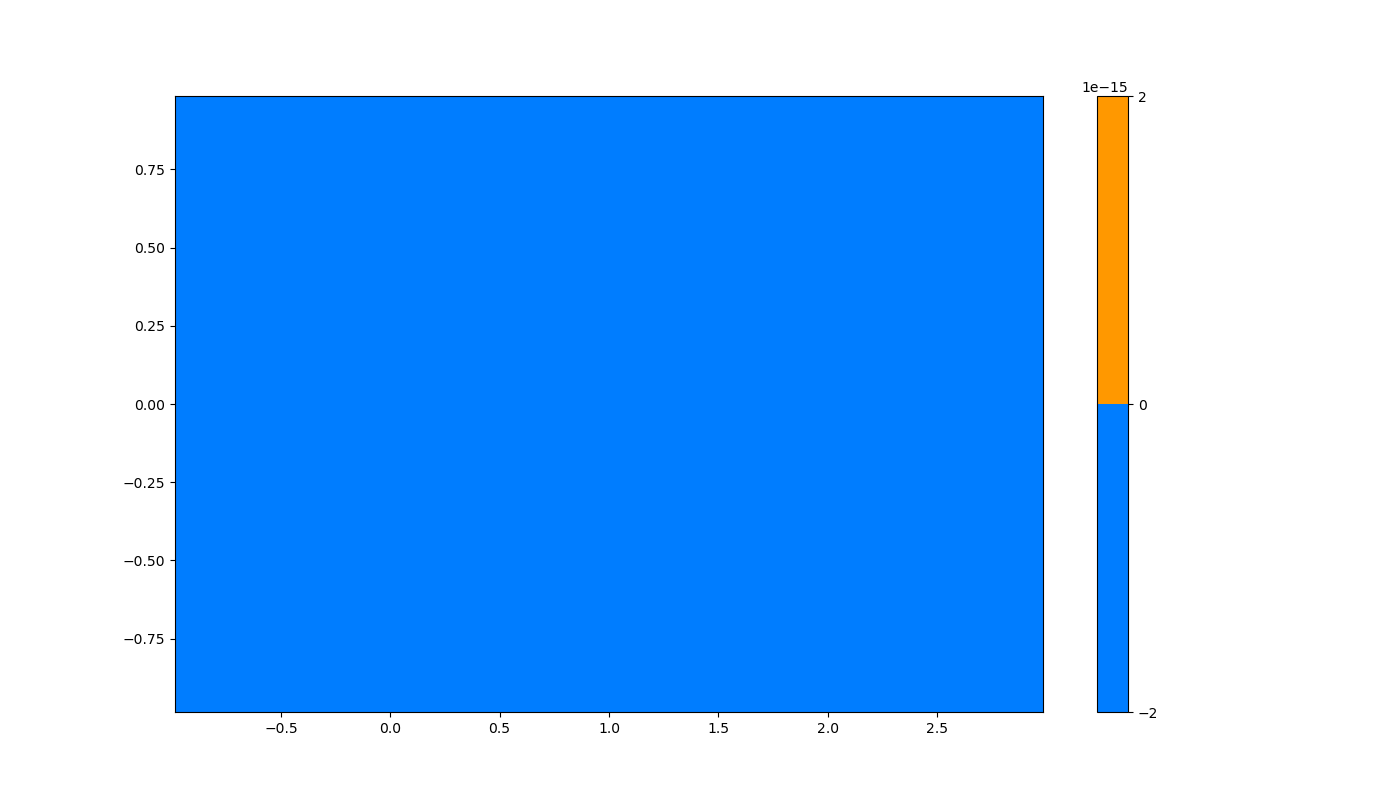
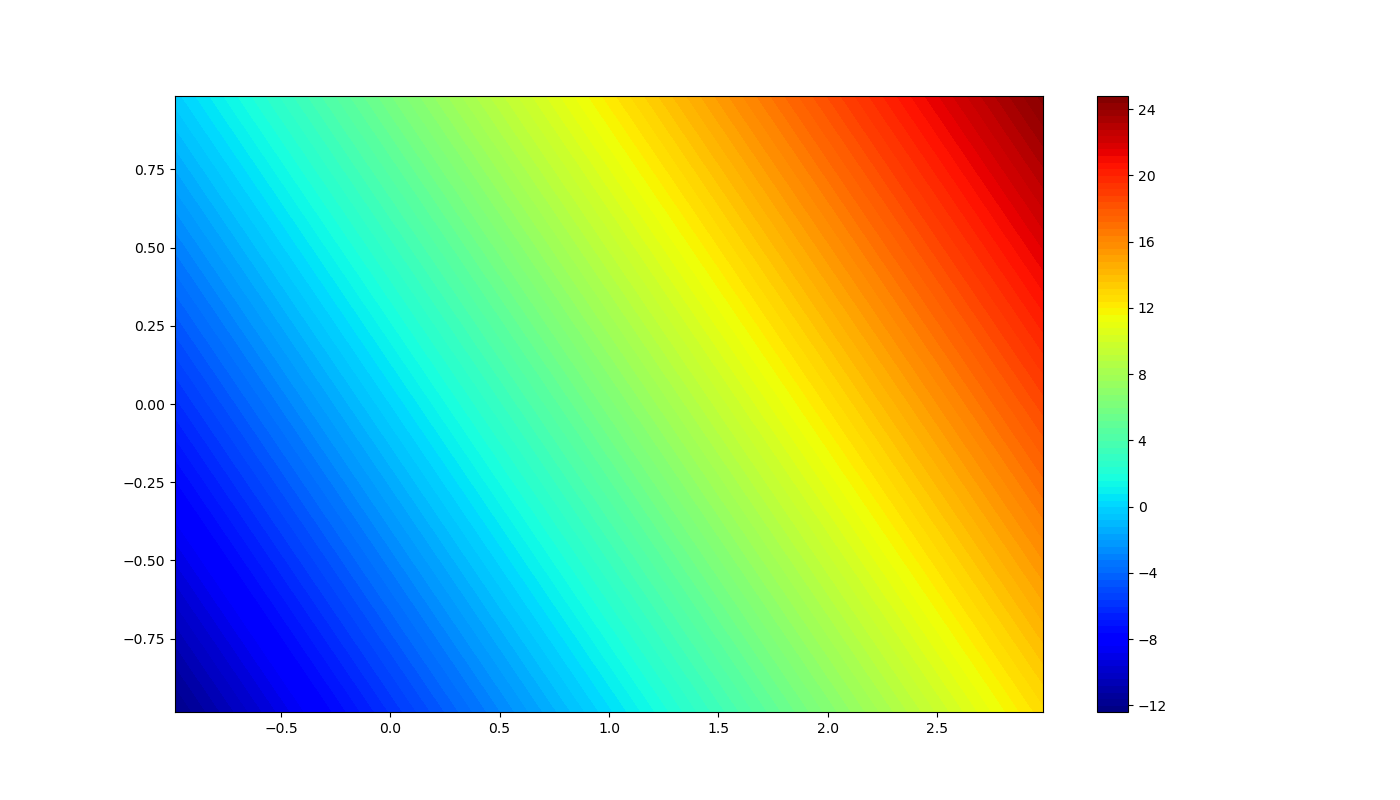
new

diff --git a/laptest.py b/laptest.py
@@ -36,8 +36,8 @@ nxs = [2*(2**i) for i in range(3,8)]
 nys = [2**i for i in range(3,8)]
 errs = []; hxs =[];hys=[]
 for nx,ny in zip(nxs,nys):
-	hy = (yn - y0)/( ny + 1 )
-	hx = (xn - x0)/( nx + 1 )
+	hy = (yn - y0)/( ny + 3 )
+	hx = (xn - x0)/( nx + 3 )
 	u = np.zeros((ny+2,nx+2))
 	xi = np.linspace(x0,xn,nx+2)
 	yi = np.linspace(y0,yn,ny+2)
@@ -45,12 +45,13 @@ for nx,ny in zip(nxs,nys):
 	hxs.append(hx);hys.append(hy)
 	idx = np.arange(1,ny+1).reshape(ny,1)
 	idy = np.arange(1,nx+1).reshape(1,nx)
+	u = func(xx,yy)
 	lapu = lap(u,idx,idy,hx,hy)
 	ue = exact(xx,yy)[idx,idy]
 	errs.append(relerr(lapu,ue))
 	
 for i in range(1,len(errs)):
-	p = np.log(errs[i-1]/errs[i])/np.log((hxs[i-1] + hys[i-1])/(hxs[i] + hys[i]))
+	p = np.log(errs[i-1]/errs[i])/np.log((hxs[i-1])/(hxs[i]))
 	print(p)
 
 #visualization
